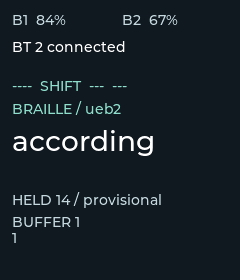
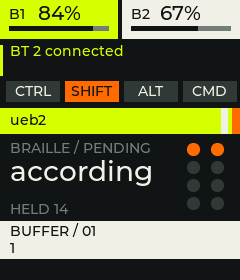
Give braille dashboard a colourful graphic layout

diff --git a/boards/shields/toucan_braille_ui/screen.c b/boards/shields/toucan_braille_ui/screen.c
@@ -1,5 +1,5 @@
 // SPDX-License-Identifier: MIT
-/* An original text-first 240x280 dashboard. No vendor widgets or layouts. */
+/* Original signal-panel dashboard, drawn with native LVGL objects. */
 #include <stdio.h>
 #include <string.h>
 #include <lvgl.h>
@@ -37,7 +37,11 @@ struct dashboard_state {
 static struct dashboard_state state;
 static struct k_spinlock state_lock;
 static int64_t notice_until;
-static lv_obj_t *battery_label[2], *endpoint_label, *mods_label;
+enum { INK = 0x101414, PAPER = 0xF1F0E6, ACID = 0xD6FF00,
+       ORANGE = 0xFF6B00, MUTED = 0x737D79, TRACK = 0x303936 };
+static lv_obj_t *battery_label[2], *battery_fill[2], *endpoint_label;
+static lv_obj_t *mod_chip[4], *mod_label[4], *held_dot[8], *held_panel;
+static lv_obj_t *buffer_panel, *buffer_heading, *activity_label;
 static lv_obj_t *mode_label, *preview_label, *dots_label, *pending_label, *notice_label;
 
 /* Input inspection runs on the system queue, alongside central behavior work;
@@ -112,51 +116,94 @@ ZMK_LISTENER(toucan_dashboard, peripheral_event);
 ZMK_SUBSCRIPTION(toucan_dashboard, zmk_peripheral_battery_state_changed);
 ZMK_SUBSCRIPTION(toucan_dashboard, zmk_split_central_status_changed);
 
+static void visible(lv_obj_t *obj, bool show) {
+    if (show) lv_obj_clear_flag(obj, LV_OBJ_FLAG_HIDDEN);
+    else lv_obj_add_flag(obj, LV_OBJ_FLAG_HIDDEN);
+}
+
+/* Avoid restarting scrolling translations/buffers on every 50 ms snapshot. */
+static void text_if_changed(lv_obj_t *obj, const char *text) {
+    if (strcmp(lv_label_get_text(obj), text)) lv_label_set_text(obj, text);
+}
+
 static void refresh(lv_timer_t *timer) {
     struct dashboard_state copy;
     k_spinlock_key_t key = k_spin_lock(&state_lock);
     copy = state;
     k_spin_unlock(&state_lock, key);
     for (unsigned i = 0; i < 2; ++i) {
-        if (copy.connected[i] && copy.known[i])
-            lv_label_set_text_fmt(battery_label[i], "%s  %u%%", i ? "B2" : "B1", copy.battery[i]);
-        else lv_label_set_text_fmt(battery_label[i], "%s %s", i ? "B2" : "B1",
-                                  copy.connected[i] ? "--" : "offline");
+        bool valid = copy.connected[i] && copy.known[i];
+        if (valid)
+            lv_label_set_text_fmt(battery_label[i], "%u%%", copy.battery[i]);
+        else lv_label_set_text(battery_label[i], copy.connected[i] ? "--" : "offline");
+        lv_obj_set_style_text_font(battery_label[i], valid ? &lv_font_montserrat_20 : &lv_font_montserrat_14, 0);
+        unsigned charge = copy.battery[i] > 100 ? 100 : copy.battery[i];
+        lv_obj_set_width(battery_fill[i], valid ? (100 * charge / 100) : 0);
+        lv_obj_set_style_bg_color(battery_fill[i], lv_color_hex(charge <= 20 ? ORANGE : INK), 0);
+        visible(battery_fill[i], valid && charge);
     }
     lv_label_set_text(endpoint_label, copy.endpoint);
-    lv_label_set_text_fmt(mods_label, "%s  %s  %s  %s",
-                         copy.mods & 0x11 ? "CTRL" : "----", copy.mods & 0x22 ? "SHIFT" : "-----",
-                         copy.mods & 0x44 ? "ALT" : "---", copy.mods & 0x88 ? "CMD" : "---");
+    lv_obj_set_style_text_color(endpoint_label,
+        lv_color_hex(strstr(copy.endpoint, "connected") ? ACID : ORANGE), 0);
+    for (unsigned i = 0; i < 4; ++i) {
+        bool active = copy.mods & (0x11 << i);
+        lv_obj_set_style_bg_color(mod_chip[i], lv_color_hex(active ? ORANGE : TRACK), 0);
+        lv_obj_set_style_text_color(mod_label[i], lv_color_hex(active ? INK : PAPER), 0);
+    }
+    bool editing = false;
 #ifdef CONFIG_ZMK_BRAILLE_SETTINGS_UI
-    if (copy.editor.active) {
+    editing = copy.editor.active;
+#endif
+    visible(held_panel, !editing);
+    visible(buffer_panel, !editing);
+    visible(activity_label, !editing);
+    visible(dots_label, !editing);
+#ifdef CONFIG_ZMK_BRAILLE_SETTINGS_UI
+    if (editing) {
         lv_label_set_text(mode_label, copy.editor.title);
+        lv_obj_set_pos(preview_label, 10, 141);
+        lv_obj_set_size(preview_label, 220, 116);
         lv_obj_set_style_text_font(preview_label, &lv_font_montserrat_14, 0);
-        lv_obj_set_height(preview_label, 128);
         lv_label_set_long_mode(preview_label, LV_LABEL_LONG_SCROLL_CIRCULAR);
-        lv_label_set_text(preview_label, copy.editor.body);
-        lv_label_set_text(dots_label, "");
-        lv_label_set_text(pending_label, "");
-        lv_label_set_text(notice_label, copy.editor.error ? "Failed: retry or Sp12 back" :
+        text_if_changed(preview_label, copy.editor.body);
+        text_if_changed(notice_label, copy.editor.error ? "Failed: retry / Sp12 back" :
                           "Sp1/4 move; Sp15 enter");
         k_work_submit(&collect_work);
         return;
     }
 #endif
+    lv_obj_set_pos(preview_label, 10, 156);
+    lv_obj_set_size(preview_label, 168, 36);
     lv_obj_set_style_text_font(preview_label, &lv_font_montserrat_28, 0);
-    lv_obj_set_height(preview_label, 65);
-    lv_label_set_long_mode(preview_label, LV_LABEL_LONG_DOT);
-    lv_label_set_text_fmt(mode_label, "%s / %s", copy.braille_layer ? "BRAILLE" : "KEYBOARD",
-                          braille_display_mode_label(copy.braille.mode));
-    lv_label_set_text(preview_label, copy.braille_layer ?
+    /* Long translations scroll instead of silently losing their suffix. */
+    lv_label_set_long_mode(preview_label, LV_LABEL_LONG_SCROLL_CIRCULAR);
+    lv_label_set_text(mode_label, braille_display_mode_label(copy.braille.mode));
+    lv_label_set_text(activity_label, copy.braille_layer ?
+                      (copy.braille.waiting ? "BRAILLE / PENDING" : "BRAILLE / PREVIEW") : "KEYBOARD");
+    text_if_changed(preview_label, copy.braille_layer ?
                       (copy.braille.preview[0] ? copy.braille.preview : "...") : "Ready");
+    for (unsigned i = 0; i < 8; ++i)
+        lv_obj_set_style_bg_color(held_dot[i],
+            lv_color_hex(copy.braille.held & (1u << i) ? ORANGE : TRACK), 0);
     char dots[12];
     braille_display_cells(&copy.braille.held, copy.braille.held ? 1 : 0, dots, sizeof(dots));
-    lv_label_set_text_fmt(dots_label, "HELD %s%s", dots[0] ? dots : "--",
-                          copy.braille.waiting ? " / provisional" : "");
-    lv_label_set_text_fmt(pending_label, "BUFFER %u\n%s", copy.braille.pending_count,
-                          copy.braille.pending[0] ? copy.braille.pending : "--");
-    lv_label_set_text(notice_label, copy.notice);
+    lv_label_set_text_fmt(dots_label, "HELD %s", dots[0] ? dots : "--");
+    lv_label_set_text_fmt(buffer_heading, "BUFFER / %02u", copy.braille.pending_count);
+    text_if_changed(pending_label, copy.braille.pending[0] ? copy.braille.pending : "--");
+    text_if_changed(notice_label, copy.notice);
     k_work_submit(&collect_work);
+}
+
+static lv_obj_t *panel(lv_obj_t *parent, int x, int y, int width, int height,
+                        uint32_t color) {
+    lv_obj_t *obj = lv_obj_create(parent);
+    lv_obj_remove_style_all(obj);
+    lv_obj_set_pos(obj, x, y);
+    lv_obj_set_size(obj, width, height);
+    lv_obj_set_style_bg_color(obj, lv_color_hex(color), 0);
+    lv_obj_set_style_bg_opa(obj, LV_OPA_COVER, 0);
+    lv_obj_clear_flag(obj, LV_OBJ_FLAG_SCROLLABLE);
+    return obj;
 }
 
 static lv_obj_t *label(lv_obj_t *screen, int x, int y, int width,
@@ -173,23 +220,51 @@ static lv_obj_t *label(lv_obj_t *screen, int x, int y, int width,
 
 lv_obj_t *zmk_display_status_screen(void) {
     lv_obj_t *screen = lv_obj_create(NULL);
-    lv_obj_set_style_bg_color(screen, lv_color_hex(0x101820), 0);
+    lv_obj_set_style_bg_color(screen, lv_color_hex(INK), 0);
     lv_obj_set_style_pad_all(screen, 0, 0);
     lv_obj_set_style_border_width(screen, 0, 0);
     lv_obj_clear_flag(screen, LV_OBJ_FLAG_SCROLLABLE);
-    battery_label[0] = label(screen, 12, 12, 108, &lv_font_montserrat_14, 0xC4D8DE);
-    battery_label[1] = label(screen, 122, 12, 108, &lv_font_montserrat_14, 0xC4D8DE);
-    endpoint_label = label(screen, 12, 39, 216, &lv_font_montserrat_14, 0xFFFFFF);
-    mods_label = label(screen, 12, 78, 216, &lv_font_montserrat_14, 0x8EDFCC);
-    mode_label = label(screen, 12, 101, 216, &lv_font_montserrat_14, 0x8EDFCC);
-    preview_label = label(screen, 12, 126, 216, &lv_font_montserrat_28, 0xFFFFFF);
-    lv_obj_set_height(preview_label, 65);
-    lv_label_set_long_mode(preview_label, LV_LABEL_LONG_DOT);
-    dots_label = label(screen, 12, 192, 216, &lv_font_montserrat_14, 0xC4D8DE);
-    pending_label = label(screen, 12, 214, 216, &lv_font_montserrat_14, 0xC4D8DE);
-    lv_obj_set_height(pending_label, 42);
+    for (unsigned i = 0; i < 2; ++i) {
+        lv_obj_t *battery = panel(screen, i * 122, 0, 118, 39, i ? PAPER : ACID);
+        lv_obj_t *name = label(battery, 9, 6, 27, &lv_font_montserrat_14, INK);
+        lv_label_set_text(name, i ? "B2" : "B1");
+        battery_label[i] = label(battery, 38, 2, 76, &lv_font_montserrat_20, INK);
+        panel(battery, 9, 26, 100, 5, MUTED);
+        battery_fill[i] = panel(battery, 9, 26, 100, 5, INK);
+    }
+    panel(screen, 0, 45, 3, 31, ACID);
+    endpoint_label = label(screen, 10, 43, 222, &lv_font_montserrat_14, ACID);
+    lv_obj_set_height(endpoint_label, 34);
+    static const char *const names[] = { "CTRL", "SHIFT", "ALT", "CMD" };
+    for (unsigned i = 0; i < 4; ++i) {
+        mod_chip[i] = panel(screen, 6 + i * 59, 81, 54, 21, TRACK);
+        mod_label[i] = label(mod_chip[i], 0, 2, 54, &lv_font_montserrat_14, PAPER);
+        lv_obj_set_style_text_align(mod_label[i], LV_TEXT_ALIGN_CENTER, 0);
+        lv_label_set_text(mod_label[i], names[i]);
+    }
+    lv_obj_t *mode = panel(screen, 0, 108, 240, 26, ACID);
+    mode_label = label(mode, 10, 4, 220, &lv_font_montserrat_14, INK);
+    panel(mode, 221, 0, 7, 26, PAPER);
+    panel(mode, 232, 0, 8, 26, ORANGE);
+    activity_label = label(screen, 10, 140, 170, &lv_font_montserrat_14, MUTED);
+    preview_label = label(screen, 10, 156, 168, &lv_font_montserrat_28, PAPER);
+    held_panel = panel(screen, 187, 143, 45, 68, INK);
+    /* Physical braille order, not sequential row order. */
+    static const uint8_t dot_x[] = {0, 0, 0, 24, 24, 24, 0, 24};
+    static const uint8_t dot_y[] = {0, 18, 36, 0, 18, 36, 54, 54};
+    for (unsigned i = 0; i < 8; ++i) {
+        held_dot[i] = panel(held_panel, dot_x[i], dot_y[i], 13, 13, TRACK);
+        lv_obj_set_style_radius(held_dot[i], LV_RADIUS_CIRCLE, 0);
+    }
+    dots_label = label(screen, 10, 201, 172, &lv_font_montserrat_14, MUTED);
+    buffer_panel = panel(screen, 0, 221, 240, 38, PAPER);
+    buffer_heading = label(buffer_panel, 10, 2, 220, &lv_font_montserrat_14, INK);
+    pending_label = label(buffer_panel, 10, 19, 220, &lv_font_montserrat_14, INK);
+    lv_obj_set_height(pending_label, 17);
     lv_label_set_long_mode(pending_label, LV_LABEL_LONG_SCROLL_CIRCULAR);
-    notice_label = label(screen, 12, 260, 216, &lv_font_montserrat_14, 0xFFD18D);
+    notice_label = label(screen, 6, 263, 228, &lv_font_montserrat_14, ORANGE);
+    lv_obj_set_height(notice_label, 17);
+    lv_label_set_long_mode(notice_label, LV_LABEL_LONG_SCROLL_CIRCULAR);
     refresh(NULL);
     lv_timer_create(refresh, 50, NULL);
     return screen;

diff --git a/tests/dashboard_preview/main.c b/tests/dashboard_preview/main.c
@@ -1,3 +1,4 @@
+#include <assert.h>
 #include <stdio.h>
 #include <stdlib.h>
 #include <lvgl.h>
@@ -34,7 +35,7 @@ int main(int argc,char **argv) {
  }
  if(!strcmp(argv[1],"offline")){
   state.connected[0]=state.connected[1]=false;state.known[0]=state.known[1]=false;
-  strcpy(state.endpoint,"USB offline");state.mods=0;strcpy(state.notice,"2 saved rules skipped");
+  dashboard_endpoint(state.endpoint,sizeof(state.endpoint),1,0,0,0);state.mods=0;strcpy(state.notice,"2 saved rules skipped");
  }
  if(!strcmp(argv[1],"settings")){
   state.editor.active=true;strcpy(state.editor.title,"Braille settings");
@@ -44,7 +45,71 @@ int main(int argc,char **argv) {
   state.editor.active=true;strcpy(state.editor.title,"Save binding?");
   strcpy(state.editor.body,"Input: 123456 145\nPosition: anywhere\n1/16 key_press\nparam1: 458756\nparam2: 0\ns Save / c Cancel");
  }
+ if(!strcmp(argv[1],"low-battery")){
+  state.battery[0]=9;state.known[1]=false;
+  state.braille.held=0;state.mods=0;state.braille.preview[0]=0;
+ }
+ if(!strcmp(argv[1],"usb-fallback")){
+  dashboard_endpoint(state.endpoint,sizeof(state.endpoint),2,4,1,0);
+  state.braille_layer=false;state.braille.held=0;state.mods=0;
+  state.braille.preview[0]=0;
+ }
+ if(!strcmp(argv[1],"all-modifiers")){
+  state.mods=0xff;
+ }
+ if(!strcmp(argv[1],"eight-dot")){
+  strcpy(state.braille.mode,"computer8");
+  state.braille.held=0xc0;strcpy(state.braille.preview,"[Backspace]");
+ }
+ if(!strcmp(argv[1],"long-buffer")){
+  strcpy(state.braille.mode,"computer8_short");
+  strcpy(state.braille.preview,"characteristically");
+  state.braille.held=0xff;state.braille.pending_count=32;state.braille.waiting=true;
+  for(unsigned i=0;i<32;i++){
+   size_t used=strlen(state.braille.pending);
+   snprintf(state.braille.pending+used,sizeof(state.braille.pending)-used,
+            "%s12345678",i?" ":"");
+  }
+ }
+ if(!strcmp(argv[1],"editor-error")){
+  state.editor.active=true;state.editor.error=-5;
+  strcpy(state.editor.title,"Save binding?");
+  strcpy(state.editor.body,"Input: 12345678 12345678\nPosition: anywhere\n16/16 key_press\nparam1: 458756\nparam2: 0\ns Save / c Cancel");
+ }
  refresh(NULL);lv_screen_load(screen);lv_refr_now(d);
+ /* Exercise a second refresh: widgets must update safely without rebuilding the screen. */
+ refresh(NULL);lv_refr_now(d);
+ assert(lv_obj_get_width(screen)==240 && lv_obj_get_height(screen)==280);
  FILE *f=fopen(argv[2],"wb");if(!f)return 3;
- fwrite(pixels,1,sizeof(pixels),f);fclose(f);return 0;
+ fwrite(pixels,1,sizeof(pixels),f);fclose(f);
+ /* Validate observable state after rendering, including stale battery readings. */
+ for(unsigned i=0;i<2;i++){
+  bool shown=state.connected[i] && state.known[i] && state.battery[i];
+  assert(lv_obj_has_flag(battery_fill[i],LV_OBJ_FLAG_HIDDEN)==!shown);
+ }
+ if(!strcmp(argv[1],"eight-dot")){
+  assert(lv_obj_get_x(held_dot[6])<lv_obj_get_x(held_dot[7]));
+  assert(lv_obj_get_y(held_dot[6])==lv_obj_get_y(held_dot[7]));
+  assert(lv_obj_get_y(held_dot[6])>lv_obj_get_y(held_dot[2]));
+  for(unsigned i=0;i<8;i++)
+   assert(lv_color_eq(lv_obj_get_style_bg_color(held_dot[i],0),
+                     lv_color_hex(i>=6?0xff6b00:0x303936)));
+ }
+ /* Editor exit must restore the normal widgets, hero font and fresh input. */
+ state.editor.active=true;strcpy(state.editor.title,"Braille settings");
+ strcpy(state.editor.body,"Mode\nNew binding\nDone");refresh(NULL);lv_refr_now(d);
+ assert(lv_obj_has_flag(held_panel,LV_OBJ_FLAG_HIDDEN));
+ assert(lv_obj_has_flag(buffer_panel,LV_OBJ_FLAG_HIDDEN));
+ state.editor.active=false;strcpy(state.braille.preview,"a");
+ state.braille_layer=true;state.braille.held=1;state.mods=0x20;
+ refresh(NULL);lv_refr_now(d);
+ assert(!lv_obj_has_flag(held_panel,LV_OBJ_FLAG_HIDDEN));
+ assert(!lv_obj_has_flag(buffer_panel,LV_OBJ_FLAG_HIDDEN));
+ assert(lv_obj_get_style_text_font(preview_label,0)==&lv_font_montserrat_28);
+ assert(!strcmp(lv_label_get_text(preview_label),"a"));
+ /* Right Shift shares the visual Shift chip; other modifier chips clear. */
+ for(unsigned i=0;i<4;i++)
+  assert(lv_color_eq(lv_obj_get_style_bg_color(mod_chip[i],0),
+                    lv_color_hex(i==1?0xff6b00:0x303936)));
+ return 0;
 }

diff --git a/scripts/preview-braille-dashboard.py b/scripts/preview-braille-dashboard.py
@@ -12,7 +12,8 @@ import subprocess
 import tempfile
 import zlib
 ROOT=Path(__file__).resolve().parents[1]
-STATES=('held','buffer','offline','settings','confirm','shorthand')
+STATES=('held','buffer','offline','settings','confirm','shorthand',
+        'low-battery','usb-fallback','all-modifiers','eight-dot','long-buffer','editor-error')
 def png(data):
     assert len(data)==240*280*3
     def chunk(kind,value):

diff --git a/docs/braille-dashboard/design.md b/docs/braille-dashboard/design.md
@@ -1,0 +1,34 @@
+# Graphic dashboard direction
+
+The dashboard uses original graphic layouts inspired by modern Marathon's bold colour blocking and utilitarian typography. Two concepts were explored with the built-in image-generation tool; the lime, ink, warm white and orange direction was selected for implementation.
+
+The generated concepts are design exploration. The firmware uses native LVGL graphics and real state, with no generated text or bitmap dependency. Actual 240×280 previews in this directory are rendered from the production screen source.
+
+![Shorthand dashboard](shorthand.png) ![Held braille cell](held.png) ![Settings](settings.png)
+
+Regenerate all twelve normal and edge-case previews with:
+
+```sh
+python3 scripts/preview-braille-dashboard.py --lvgl /path/to/pinned/lvgl
+```
+
+The harness also checks editor exit, battery availability, left/right modifier mapping and physical braille-dot placement. The preview uses the actual screen implementation; platform state is supplied by fixtures. Hardware readability and runtime behaviour still need an on-device check.
+
+## Design priorities
+
+- Two battery gauges with numeric readings and explicit unavailable states.
+- A clear transport and connection band, including preferred transport when fallback is active.
+- Modifier chips that light when held.
+- A bright current-mode band and a large translated preview beside the physical eight-dot cell.
+- A separate buffer area and readable settings/editor states.
+- Sharp shapes and a restrained palette suitable for the display and its memory budget.
+
+## Concept prompts
+
+### Lime / orange
+
+Use case: ui-mockup. Create a polished concept board of an original tiny 240x280 pixel portrait keyboard dongle dashboard, enlarged crisply. Inspired by the graphic design of Bungie's modern Marathon: acid lime, near-black, warm white, vivid orange, stark geometric color blocking, bold condensed typography and precise utilitarian signal graphics. NOT a game HUD, no game logos. One single flat screen filling the image, no device frame. At this small display size use few large readable elements, no decorative microtext. Header has two graphical segmented battery gauges labelled B1 84% and B2 67%. Connection band BT 2 CONNECTED with a strong signal icon. Four modifier chips CTRL SHIFT ALT CMD, only SHIFT lit orange. Mode strip 8DOT+SHORT. Hero area contains large lowercase 'about' and an actual eight-dot braille cell with two columns of four dots, dots 1 and 2 illuminated (left column top two), other six dim. A tiny HELD caption and '12'. Bottom buffer area labelled BUFFER 1 with one small braille cell showing only dot 1 lit. Convey adventurous editorial sci-fi industrial design using flat sharp rectangles and circles that could be implemented in LVGL, high legibility, generous hierarchy, substantial colour panels, no gradients, no shadows, no extra metrics.
+
+### Orange / cyan
+
+Use case: ui-mockup. Explore a second distinct original keyboard dongle dashboard, single flat portrait 240x280 proportion screen enlarged, no hardware. Graphic design inspiration modern Bungie Marathon: bold utilitarian Swiss sci-fi typography, striking graphic panels, hard geometric wayfinding. Alternative palette burnt fluorescent orange as dominant header, cyan indicators, bone white and nearblack. Tiny embedded screen so readable sparse hierarchy, implementable with rectangles/circles and fonts. Top dual battery gauges B1 84%, B2 67%. BT 2 CONNECTED. Modifier chips CTRL SHIFT ALT CMD with SHIFT active. Mode 8DOT+SHORT. Main huge lowercase 'about', 2x4 braille dot graphic dots1+2 lit left top two. Bottom BUFFER 1 with dot1 cell. Original dashboard, no logos, no game metrics, no texture, no gradients, no microscopic ornamental labels. More visually adventurous asymmetry than generic text dashboard.
